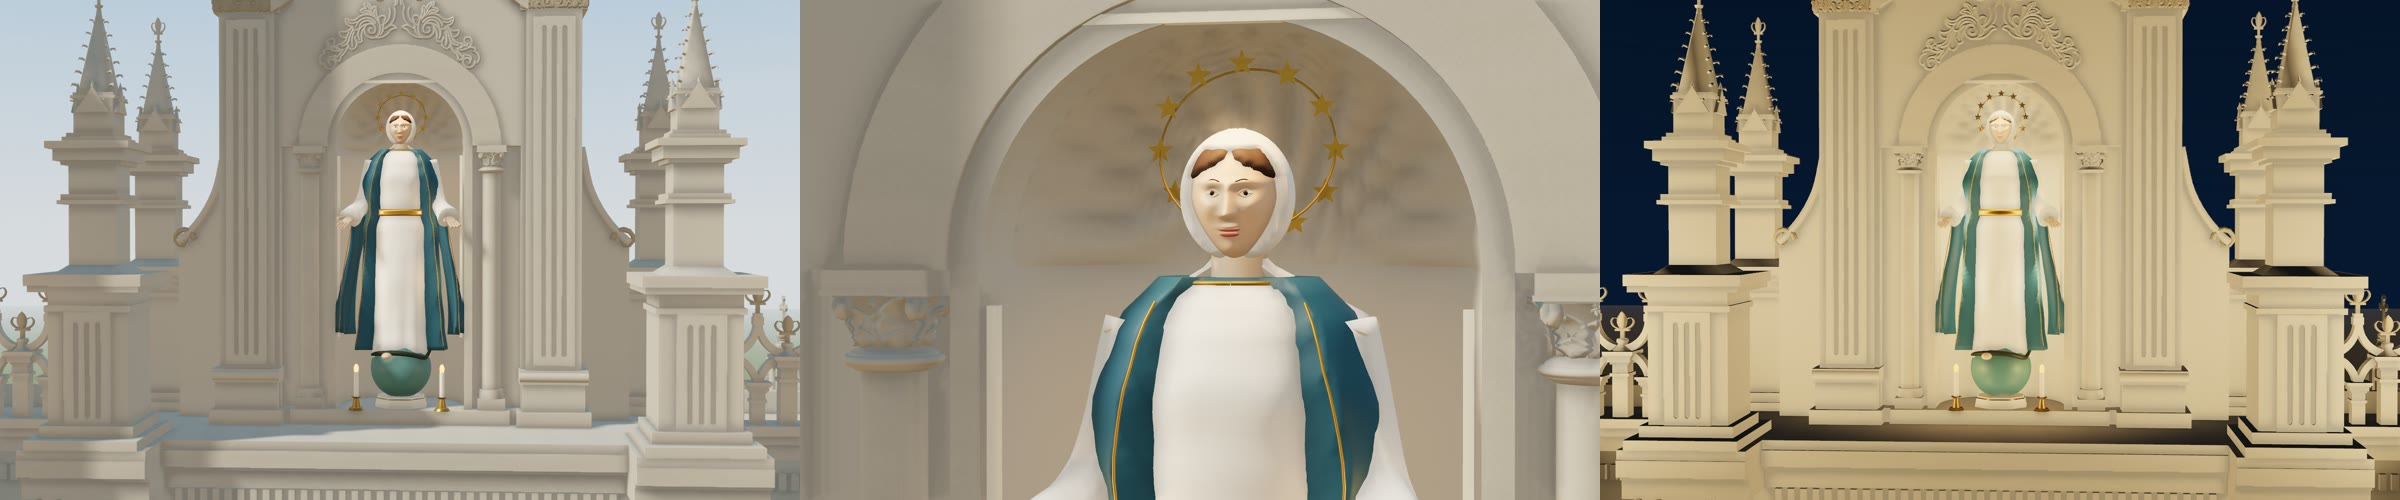
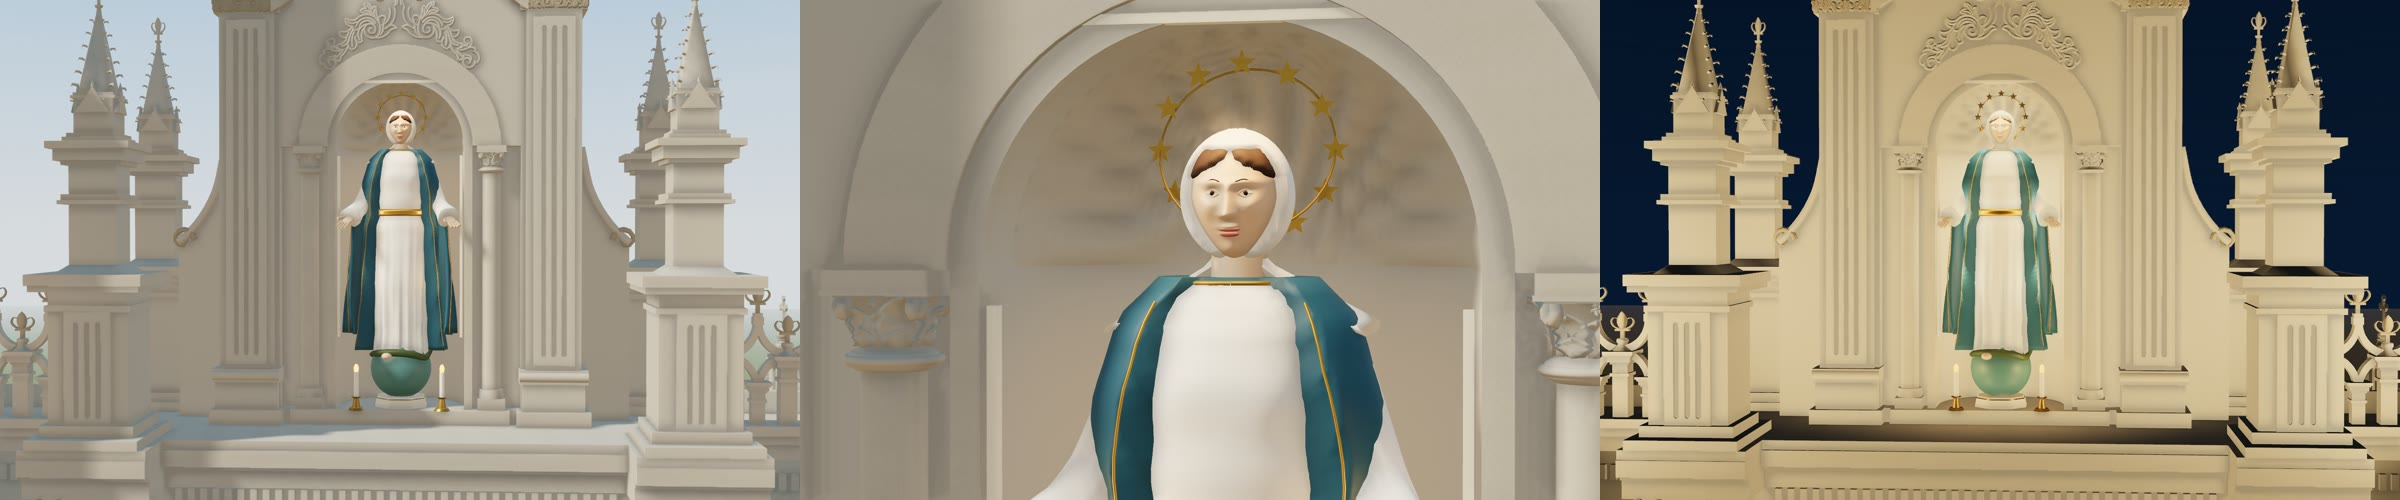
Keep Our Lady of Grace in saved layouts, and drape her robe
Owner, 21 Nov 2026: the central niche was empty. Loading a saved layout
drops items of unknown type, and the Assumption type had been retired
before facadeGraceRevision could retype the statue, so the statue was
lost and the niche left empty.

- catalog.js exports retiredTypes { statueAssumption ->
  statueOurLadyOfGrace }; engine.js normalizeItem maps them, so a saved
  or imported Assumption loads as Our Lady of Grace.
- facadeGraceRevision issue 2: a layout that took issue 1 without the
  statue gets it back once; a statue deleted on any other path stays
  deleted (the engine passes the stored revision to the upgrade).
- Owner asked for a little more refinement: the robe is smooth over the
  bodice, gathered at the girdle and falls in finer, deeper folds onto
  the globe; sleeves set in under the mantle at the slimmer shoulders;
  the serpent is thicker and olive green so it reads from the forecourt.
  Envelope unchanged; the five other statues stay byte-identical to main.
- Evidence sheets re-captured; statue record updated.

Checks: verify_sculpture passed (envelope unchanged, 58,244 triangles);
verify_simulator --report --estimates passed, including the new load
and restore tests. Known unmet targets are unchanged: ambo/altar
feedback 0.9/1.4 dB, wing clarity minimum 0.410. No positions or names
changed, so the electrical exports and registers stay current. Desktop
views, day and evening, in visit-only mode.

diff --git a/Thach_Bi_Viewer/simulator/catalog.js b/Thach_Bi_Viewer/simulator/catalog.js
@@ -81,7 +81,7 @@
     // Our Lady of Grace on the façade (owner's reference, 21 Nov 2026): teal-blue mantle, sea-green globe, dark serpent.
     mantleGrace: { color: '#2f6378', roughness: 0.55 },
     globeTeal: { color: '#5d8c8a', roughness: 0.5 },
-    serpent: { color: '#2f3a26', roughness: 0.45 },
+    serpent: { color: '#4a5e35', roughness: 0.45 },
     socketPlate: { color: '#f1eee6', roughness: 0.42 },
     socketDark: { color: '#33363a', roughness: 0.6 },
     enclosureGrey: { color: '#8f959b', metalness: 0.25, roughness: 0.55 },
@@ -601,12 +601,18 @@
     // Long folds with rounded ridges and sharp valleys, deeper towards the hem.
     const folds = (a, y, k1, k2, p) => 0.6 * Math.abs(Math.sin(k1 * a + p)) + 0.4 * Math.abs(Math.sin(k2 * a + 2.1 * p + 1.5 * y)) - 0.62;
     const levels = (y0, y1, n) => Array.from({ length: n + 1 }, (_, i) => y0 + (y1 - y0) * i / n);
-    function robe(T, female, hem = 1, slim = 1, top = 0.876) {
-      return memo('robe' + female + (hem === 1 && slim === 1 && top === 0.876 ? '' : '|' + hem + '|' + slim + '|' + top), () => surface(T, levels(0, top, 56).map(y => {
-        const [rx, rz, cx] = section(y, hem, slim), amp = 0.012 + 0.1 * smooth(0.6, 0.04, y) * smooth(0, 0.03, y + 0.02);
-        return Array.from({ length: 56 }, (_, j) => {
-          const a = j * TAU / 56, front = wrap(a);
-          let d = 1 + amp * folds(a, y, 3.5, 5.5, 0.6);
+    // drape (optional): finer, deeper folds round the robe and cloth bloused over a girdle,
+    // { n: points per ring, k1, k2: fold counts, amp: fold depth factor, blouse: fullness at the girdle }.
+    function robe(T, female, hem = 1, slim = 1, top = 0.876, drape = null) {
+      const plain = hem === 1 && slim === 1 && top === 0.876 && !drape, n = drape?.n || 56;
+      return memo('robe' + female + (plain ? '' : '|' + hem + '|' + slim + '|' + top + '|' + JSON.stringify(drape)), () => surface(T, levels(0, top, 56).map(y => {
+        // With drape the folds fall from the girdle; the bodice above it stays smooth.
+        const bodice = drape ? smooth(0.56, 0.62, y) : 0, fall = drape ? drape.amp * (1 - bodice) + 0.25 * bodice : 1;
+        const [rx, rz, cx] = section(y, hem, slim), amp = (0.012 + 0.1 * smooth(0.6, 0.04, y) * smooth(0, 0.03, y + 0.02)) * fall;
+        return Array.from({ length: n }, (_, j) => {
+          const a = j * TAU / n, front = wrap(a);
+          let d = 1 + amp * folds(a, y, drape?.k1 || 3.5, drape?.k2 || 5.5, 0.6);
+          if (drape?.blouse) d += drape.blouse * (bell(y, 0.625, 0.035) + 0.5 * bell(y, 0.545, 0.03));
           d += 0.1 * bell(y, 0.27, 0.075) * bell(front, 0.42, 0.33);            // one knee forward
           if (female) d += 0.05 * bell(y, 0.715, 0.035) * (bell(front, 0.5, 0.3) + bell(front, -0.5, 0.3));
           const w = female ? 1 - 0.07 * smooth(0.7, 0.8, y) * smooth(0.85, 0.8, y) : 1;
@@ -766,7 +772,7 @@
      * Returns unchanged hand anchors, used by the Child, keys and sword. */
     function figure(k, o) {
       const T = k.T, H = o.H, y0 = o.y0 || 0, ox = o.x || 0, oz = o.z || 0, at = { p: [ox, y0, oz], s: H }, skin = o.skin || 'skin';
-      k.add(robe(T, !!o.female, o.hem || 1, o.slim || 1, o.neckline || 0.876), o.robe, at);
+      k.add(robe(T, !!o.female, o.hem || 1, o.slim || 1, o.neckline || 0.876, o.drape || null), o.robe, at);
       if (o.neckline && o.edging) { // gilded neckline of the robe
         const [rx, rz, cx] = section(o.neckline, o.hem, o.slim), ring = Array.from({ length: 25 }, (_, j) => { const a = j * TAU / 24; return [ox + (cx + rx * Math.cos(a)) * H, y0 + o.neckline * H, oz + rz * Math.sin(a) * H]; });
         k.tube(ring, .0028 * H, 'gold', {}, 48, 5);
@@ -830,7 +836,9 @@
           k.add(wing(T, pose.arm, z, o.wings), o.mantle, at);
           if (o.edging) k.tube([[wrist[0] - .012, wrist[1] - .03, z * (Math.abs(wrist[2]) - .004)], [wrist[0] - .01, (wrist[1] + o.wings.bottom) / 2, z * (Math.abs(wrist[2]) + o.wings.flare + .03) / 2 + z * .01], [.12, o.wings.bottom + .03, z * (o.wings.flare + .03)]].map(p => [ox + p[0] * H, y0 + p[1] * H, oz + p[2] * H]), .0018 * H, 'gold', {}, 20, 5);
         }
-        k.add(limb(T, pose.arm, [0.04, 0.036, 0.033, 0.034, 0.044], (o.pose || 'prayer') + z), o.sleeve || o.robe, at);
+        // Slighter shoulders (slim) bring the shoulder joint in, so the sleeve stays under the mantle.
+        const arm = o.slim ? pose.arm.map((p, i) => i === 0 ? [p[0], p[1] - .012, p[2] * o.slim] : p) : pose.arm;
+        k.add(limb(T, arm, [0.04, 0.036, 0.033, 0.034, 0.044], (o.pose || 'prayer') + z + (o.slim ? '|' + o.slim : '')), o.sleeve || o.robe, at);
         const f = new T.Vector3(...pose.dir).normalize(), start = [wrist[0] - f.x * 0.004, wrist[1] - f.y * 0.004, wrist[2] - f.z * 0.004];
         hand(k, skin, start, pose.dir, pose.palm, H, y0, ox, oz, ['open', 'raised', 'sword'].includes(o.pose));
         hands[z < 0 ? 'right' : 'left'] = [ox + (wrist[0] + f.x * 0.045) * H, y0 + (wrist[1] + f.y * 0.045) * H, oz + (wrist[2] + f.z * 0.045) * H];
@@ -887,15 +895,15 @@
     // The serpent lies along the globe under her right foot (-z), its head raised at the front.
     const on = (t, f, lift) => [(R + lift) * Math.sin(t) * Math.cos(f), c + (R + lift) * Math.cos(t), (R + lift) * Math.sin(t) * Math.sin(f)];
     const path = [[1.3, 2.3], [1.2, 1.75], [1.1, 1.15], [1.03, 0.55], [1.02, -0.05], [1.1, -0.55], [1.2, -0.95], [1.12, -1.25]];
-    const radii = [0.005, 0.014, 0.022, 0.027, 0.028, 0.027, 0.024, 0.02];
-    const body = path.map(([t, f], i) => on(t, f, radii[i] * 0.75));
-    const head = on(0.98, -1.42, 0.07), tip = on(0.93, -1.5, 0.08);
-    k.add(SCULPT.limb(k.T, [...body, head], [...radii, 0.017], 'grace-serpent'), 'serpent');
+    const radii = [0.008, 0.022, 0.034, 0.04, 0.042, 0.04, 0.036, 0.03];
+    const body = path.map(([t, f], i) => on(t, f, radii[i] * 0.7));
+    const head = on(0.98, -1.42, 0.085), tip = on(0.93, -1.5, 0.1);
+    k.add(SCULPT.limb(k.T, [...body, head], [...radii, 0.024], 'grace-serpent-2'), 'serpent');
     const dir = new k.T.Vector3(tip[0] - head[0], tip[1] - head[1], tip[2] - head[2]).normalize();
     const q = new k.T.Quaternion().setFromUnitVectors(new k.T.Vector3(1, 0, 0), dir);
-    k.sph(1, 'serpent', { p: [head[0] + dir.x * 0.02, head[1] + dir.y * 0.02, head[2] + dir.z * 0.02], q, s: [0.045, 0.02, 0.028] }, 12, 8);
-    k.sph(1, 'robeRed', { p: [head[0] + dir.x * 0.058, head[1] + dir.y * 0.058 - 0.004, head[2] + dir.z * 0.058], q, s: [0.014, 0.005, 0.012] }, 8, 6);
-    SCULPT.figure(k, { ...PAINTED, H, y0, robe: 'robeWhite', sleeve: 'robeWhite', mantle: 'mantleGrace', veil: 'robeWhite', hair: 'hair', sash: 'gold', feet: 'skin', pose: 'open', female: true, look: -0.1, hem: 0.78, slim: 0.84,
+    k.sph(1, 'serpent', { p: [head[0] + dir.x * 0.025, head[1] + dir.y * 0.025, head[2] + dir.z * 0.025], q, s: [0.06, 0.028, 0.04] }, 12, 8);
+    k.sph(1, 'robeRed', { p: [head[0] + dir.x * 0.075, head[1] + dir.y * 0.075 - 0.006, head[2] + dir.z * 0.075], q, s: [0.02, 0.007, 0.016] }, 8, 6);
+    SCULPT.figure(k, { ...PAINTED, H, y0, robe: 'robeWhite', sleeve: 'robeWhite', mantle: 'mantleGrace', veil: 'robeWhite', hair: 'hair', sash: 'gold', feet: 'skin', pose: 'open', female: true, look: -0.1, hem: 0.78, slim: 0.84, drape: { n: 96, k1: 7, k2: 11, amp: 1.6, blouse: 0.03 },
       headScale: 1.08, soft: true, neck: 0.03,
       hairShape: { brow: 0.62, arch: 0.4, part: 0.08, sweep: 0.025, tuck: true },
       veilShape: { edge: 0.42, rise: 0.2, brow: 0.72, grow: 1.2, bottom: -2.0, spread: 7, tuck: true },
@@ -1380,6 +1388,10 @@
     { id: 'carpet', cat: DECOR, family: 'Fabric', name: 'Aisle carpet runner', mounts: ['floor'], params: { length: { label: 'Length (m)', min: 4, max: 34, step: 1, value: 26 } }, build: buildCarpet }
   ];
   const byId = Object.fromEntries(types.map(t => [t.id, t]));
+  // Retired figure types and the type a saved or imported item of that type now takes, so a
+  // layout never loses the item before its migration runs (owner, 21 Nov 2026: the façade
+  // Assumption became Our Lady of Grace on the globe).
+  const retiredTypes = { statueAssumption: 'statueOurLadyOfGrace' };
 
-  window.CHURCH_SIM_CATALOG = { MATERIALS, types, byId, makeKit, bulbCount };
+  window.CHURCH_SIM_CATALOG = { MATERIALS, types, byId, retiredTypes, makeKit, bulbCount };
 })();

diff --git a/Thach_Bi_Viewer/simulator/design.js b/Thach_Bi_Viewer/simulator/design.js
@@ -877,10 +877,15 @@
   // type (the Assumption figure is retired from the catalogue); places, aims, names and notes change
   // only where they are still the previous recommended ones, so user moves and renames are kept,
   // a deleted fitting stays deleted, and switching, dimming and circuits are kept.
-  const facadeGraceRevision = '2026-11-21-facade-our-lady-of-grace-1';
-  function upgradeFacadeGrace(items, design) {
+  // Issue 1 of this revision ran after loading had already dropped the statue (its retired type was
+  // unknown), leaving the niche empty; the catalogue now maps the retired type, and a layout that
+  // took issue 1 without the statue gets it back once (`from` is the stored revision).
+  const facadeGraceRevision = '2026-11-21-facade-our-lady-of-grace-2';
+  const facadeGraceLossy = '2026-11-21-facade-our-lady-of-grace-1';
+  function upgradeFacadeGrace(items, design, from = '') {
     const before = new Map(nicheFittings(facadeNicheAssumption).map(it => [it.id, it]));
     const next = new Map(design.map(it => [it.id, it]));
+    if (from === facadeGraceLossy && !items.some(it => it.id === 'D-FACADE-C') && next.has('D-FACADE-C')) items = [...items, { ...next.get('D-FACADE-C') }];
     return items.map(it => {
       const old = before.get(it.id), raw = next.get(it.id);
       if (!old || !raw) return it;
@@ -1616,5 +1621,5 @@
     return items.filter(it => !retired.has(it.id)).map(it => replacements.get(it.id) || it);
   }
 
-  window.CHURCH_SIM_DESIGN = { beamSectionRevision, upgradeBeamSections, BEAMS, BEAMS_BEFORE, readingPlacement, wingGableLightsRevision, upgradeWingGableLights, WING_GABLE_UPLIGHT, sanctuaryPalmsRevision, upgradeSanctuaryPalms, goldCoveRevision, goldCoveNames, goldCoveBefore, upgradeGoldCove, festivalStringsRevision, upgradeFestivalStrings, festivalTerraceRevision, upgradeFestivalTerrace, rearSideLightsRevision, upgradeRearSideLights, entranceInteriorRevision, upgradeEntranceInterior, centreReadingRevision, upgradeCentreReading, columnWashRevision, columnWashIds, upgradeColumnWash, wingRoofLightingRevision, wingRoofLightingBefore, upgradeWingRoofLighting, entranceFitRevision, entranceFitBefore, upgradeEntranceFit, sideVaultLightsRevision, sideVaultLightsBefore, upgradeSideVaultLights, naveWingLightingRevision, naveCentreBefore, wingChandelierBefore, naveWingLightIds, upgradeNaveWingLighting, WING_DOWNLIGHT, towerPierRevision, towerPierBefore, upgradeTowerPiers, parishMeetingRevision, parishMeetingBefore, parishMeetingAdded, upgradeParishMeeting, facadeCadRevision, upgradeFacadeCad, facadeGraceRevision, upgradeFacadeGrace, facadeNicheAssumption, facadeNiches, facadeNichesBefore, daisLevelRevision, upgradeDaisLevel, DAIS_Y, DAIS_BEFORE_Y, fanBeamRevision, upgradeFanBeams, finishChandelierRevision, upgradeFinishChandeliers, NAVE_CHANDELIER_BEFORE_Y, hiddenFittingsRevision, hiddenFittingsBefore, upgradeHiddenFittings, exhaustSplitRevision, upgradeExhaustSplit, facadeStatueRevision, facadeStatueIds, upgradeFacadeStatues, outletRevision, outletIds, upgradeOutlets, naveFanRevision, naveFanLegacyIds, naveFanTargets, upgradeNaveFans, wingArtRevision, wingArtTargets, upgradeWingArt, wingReviewRetiredIds, wingReviewScope, wingSoundRevision, wingSoundRetiredIds, wingSoundTargets, upgradeWingSound, wingReviewRevision, upgradeWingReview, wingReviewTargets, sanctuaryRevision, upgradeSanctuary, recommended, aim, upgradeLighting, lightingRevision, upgradeFacade, facadeRevision, upgradeEntrance, entranceRevision, version: '2026-10-16-tower-board' };
+  window.CHURCH_SIM_DESIGN = { beamSectionRevision, upgradeBeamSections, BEAMS, BEAMS_BEFORE, readingPlacement, wingGableLightsRevision, upgradeWingGableLights, WING_GABLE_UPLIGHT, sanctuaryPalmsRevision, upgradeSanctuaryPalms, goldCoveRevision, goldCoveNames, goldCoveBefore, upgradeGoldCove, festivalStringsRevision, upgradeFestivalStrings, festivalTerraceRevision, upgradeFestivalTerrace, rearSideLightsRevision, upgradeRearSideLights, entranceInteriorRevision, upgradeEntranceInterior, centreReadingRevision, upgradeCentreReading, columnWashRevision, columnWashIds, upgradeColumnWash, wingRoofLightingRevision, wingRoofLightingBefore, upgradeWingRoofLighting, entranceFitRevision, entranceFitBefore, upgradeEntranceFit, sideVaultLightsRevision, sideVaultLightsBefore, upgradeSideVaultLights, naveWingLightingRevision, naveCentreBefore, wingChandelierBefore, naveWingLightIds, upgradeNaveWingLighting, WING_DOWNLIGHT, towerPierRevision, towerPierBefore, upgradeTowerPiers, parishMeetingRevision, parishMeetingBefore, parishMeetingAdded, upgradeParishMeeting, facadeCadRevision, upgradeFacadeCad, facadeGraceRevision, facadeGraceLossy, upgradeFacadeGrace, facadeNicheAssumption, facadeNiches, facadeNichesBefore, daisLevelRevision, upgradeDaisLevel, DAIS_Y, DAIS_BEFORE_Y, fanBeamRevision, upgradeFanBeams, finishChandelierRevision, upgradeFinishChandeliers, NAVE_CHANDELIER_BEFORE_Y, hiddenFittingsRevision, hiddenFittingsBefore, upgradeHiddenFittings, exhaustSplitRevision, upgradeExhaustSplit, facadeStatueRevision, facadeStatueIds, upgradeFacadeStatues, outletRevision, outletIds, upgradeOutlets, naveFanRevision, naveFanLegacyIds, naveFanTargets, upgradeNaveFans, wingArtRevision, wingArtTargets, upgradeWingArt, wingReviewRetiredIds, wingReviewScope, wingSoundRevision, wingSoundRetiredIds, wingSoundTargets, upgradeWingSound, wingReviewRevision, upgradeWingReview, wingReviewTargets, sanctuaryRevision, upgradeSanctuary, recommended, aim, upgradeLighting, lightingRevision, upgradeFacade, facadeRevision, upgradeEntrance, entranceRevision, version: '2026-10-16-tower-board' };
 })();

diff --git a/Thach_Bi_Viewer/OPEN_CHURCH.html b/Thach_Bi_Viewer/OPEN_CHURCH.html
@@ -138,13 +138,13 @@
 <script src="planning.js?v=20261120-photographic-wood-1"></script>
 <script src="simulator/physics.js?v=20261006-estimates-1"></script>
 <script src="wing-saint-textures.js?v=20261009-native-offline-1"></script>
-<script src="simulator/catalog.js?v=20261121-grace-globe-1"></script>
+<script src="simulator/catalog.js?v=20261121-grace-globe-3"></script>
 <script src="simulator/veranda-review.js?v=20261025-open-porch-light-sound-1"></script>
 <script src="simulator/doorhead-review.js?v=20261107-sacristy-doors-1"></script>
-<script src="simulator/engine.js?v=20261121-grace-globe-1"></script>
+<script src="simulator/engine.js?v=20261121-grace-globe-2"></script>
 <script src="simulator/light-grid.js?v=20261007-performance-2"></script>
 <script src="simulator/persistent-lighting.js?v=20261110-finish-1"></script>
-<script src="simulator/design.js?v=20261121-grace-globe-1"></script>
+<script src="simulator/design.js?v=20261121-grace-globe-2"></script>
 <script src="simulator/analysis.js?v=20261101-sanctuary-floor-1"></script>
 <script src="simulator/electrical.js?v=20261108-strong-beams-1"></script>
 <script src="simulator/installation-review.js?v=20261009-wing-holds-2"></script>

diff --git a/Thach_Bi_Viewer/simulator/engine.js b/Thach_Bi_Viewer/simulator/engine.js
@@ -1543,7 +1543,7 @@
     return id;
   }
   function normalizeItem(raw) {
-    const type = CAT.byId[raw.type];
+    const type = CAT.byId[raw.type] || CAT.byId[CAT.retiredTypes?.[raw.type]];
     if (!type) return null;
     const num = (v, d) => Number.isFinite(Number(v)) ? Number(v) : d;
     const pos = Array.isArray(raw.pos) && raw.pos.length === 3 ? raw.pos.map(v => num(v, 0)) : null;
@@ -2700,7 +2700,7 @@
       ['sanctuaryPalmsRevision', D.sanctuaryPalmsRevision, '.before-sanctuary-palms', D.upgradeSanctuaryPalms],
       ['wingGableLightsRevision', D.wingGableLightsRevision, '.before-wing-gable-lights', D.upgradeWingGableLights],
       ['beamSectionRevision', D.beamSectionRevision, '.before-stronger-beams', D.upgradeBeamSections],
-      ['facadeGraceRevision', D.facadeGraceRevision, '.before-our-lady-of-grace', D.upgradeFacadeGrace]
+      ['facadeGraceRevision', D.facadeGraceRevision, '.before-our-lady-of-grace', (items, design) => D.upgradeFacadeGrace(items, design, state.settings.facadeGraceRevision)]
     ]) {
       if (!loaded) { state.settings[field] = revision; continue; }
       if (state.settings[field] === revision) continue;

diff --git a/docs/engineering/outlets-and-facade-statues.md b/docs/engineering/outlets-and-facade-statues.md
@@ -129,11 +129,11 @@ Positions, IDs, the hidden lines and candles, circuits and saved layouts are unc
 | Base | Drawn pedestal 0.93 × 0.686 m, top +16.683; 0.20 m cloud plinth | Pedestal left out (`facade.js`); 0.12 m octagonal plinth with a gilt fillet on the niche floor +15.997, then a sea-green globe of 0.68 m diameter with the serpent coiled on it |
 | Figure | 2.42 m, feet at +16.883 | 2.76 m (+14 %), feet at +16.547 |
 | Head and face | Upturned face; veil set back so the hair showed as a thin dark ring; the robe's neck rose as a white column under the chin | Head 8 % larger in proportion, with the crown at the same height. Softer jaw and cheeks, fine arched brows and one small mouth. Bare neck with a gilt neckline. The veil frames the face over parted hair and falls behind the shoulders. Gaze slightly down. |
-| Body and mantle | Broad, straight body; mantle close to it | Shoulders 16 % narrower; the robe narrows onto the globe. The mantle opens wide, and its front edges hang from the forearms nearly to the hem, as in the reference. |
+| Body and mantle | Broad, straight body; mantle close to it | Shoulders 16 % narrower, with the sleeves set in under the mantle. The robe is smooth over the bodice, gathered at the girdle and falls in long folds onto the globe. The mantle opens wide, and its front edges hang from the forearms nearly to the hem, as in the reference. |
 | Halo | 12 gilt stars, centre +19.255 | Unchanged height and size |
 | Envelope | Top +19.550, back X 4.51, 1.20 m wide | Top +19.547 (arch crown +19.604), back X 4.74 (niche back 4.94), 1.36 m wide in the 1.422 m niche, front of the globe X 3.84 over the floor edge 3.80 |
 
-The statue record moves 0.10 m back and down to the niche floor. Its two candles move to the floor beside the globe, and the arch light re-aims at the new face height (+19.15). The L10 routes and lengths change with them. Saved layouts take this once (`facadeGraceRevision`, backup `.before-our-lady-of-grace`). The statue is always retyped, because the Assumption figure is retired from the catalogue. Positions, aims, names and notes change only where they still hold the previous recommended values, so a moved, re-aimed or renamed fitting keeps the user's choice, and a deleted one stays deleted.
+The statue record moves 0.10 m back and down to the niche floor. Its two candles move to the floor beside the globe, and the arch light re-aims at the new face height (+19.15). The L10 routes and lengths change with them. Saved layouts take this once (`facadeGraceRevision`, backup `.before-our-lady-of-grace`). The first issue of that update emptied the niche in a saved layout: loading dropped the statue because its retired type was unknown, before the update could retype it. The catalogue now maps the retired type (`retiredTypes`), and issue 2 gives the statue back once to a layout that took issue 1 without it. The statue is always retyped, because the Assumption figure is retired from the catalogue. Positions, aims, names and notes change only where they still hold the previous recommended values, so a moved, re-aimed or renamed fitting keeps the user's choice, and a deleted one stays deleted.
 
 The shared sculpture options added for this figure are opt-in. They cover the head scale, soft face, bare neck, neckline, hem and shoulder taper, hanging mantle edges, a tucked and blended veil edge, and a parted, arched hairline. A fingerprint comparison against `main` shows Our Lady, Saint Joseph, the Sacred Heart, Saint Peter and Saint Paul are byte-identical.
 
